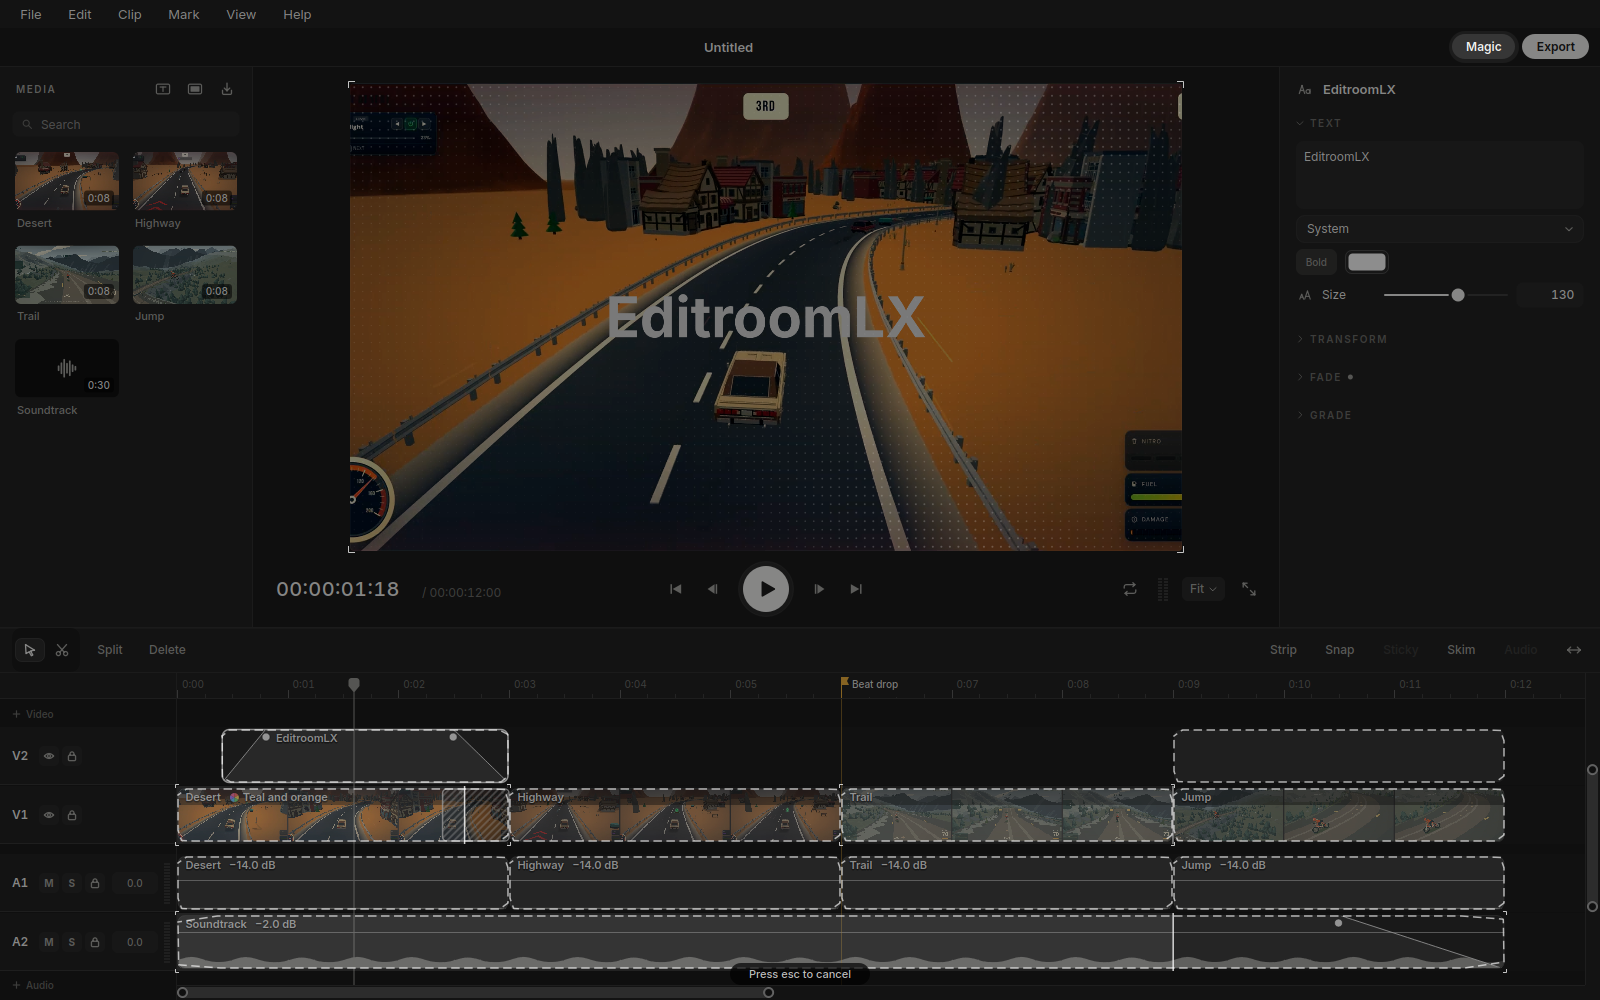
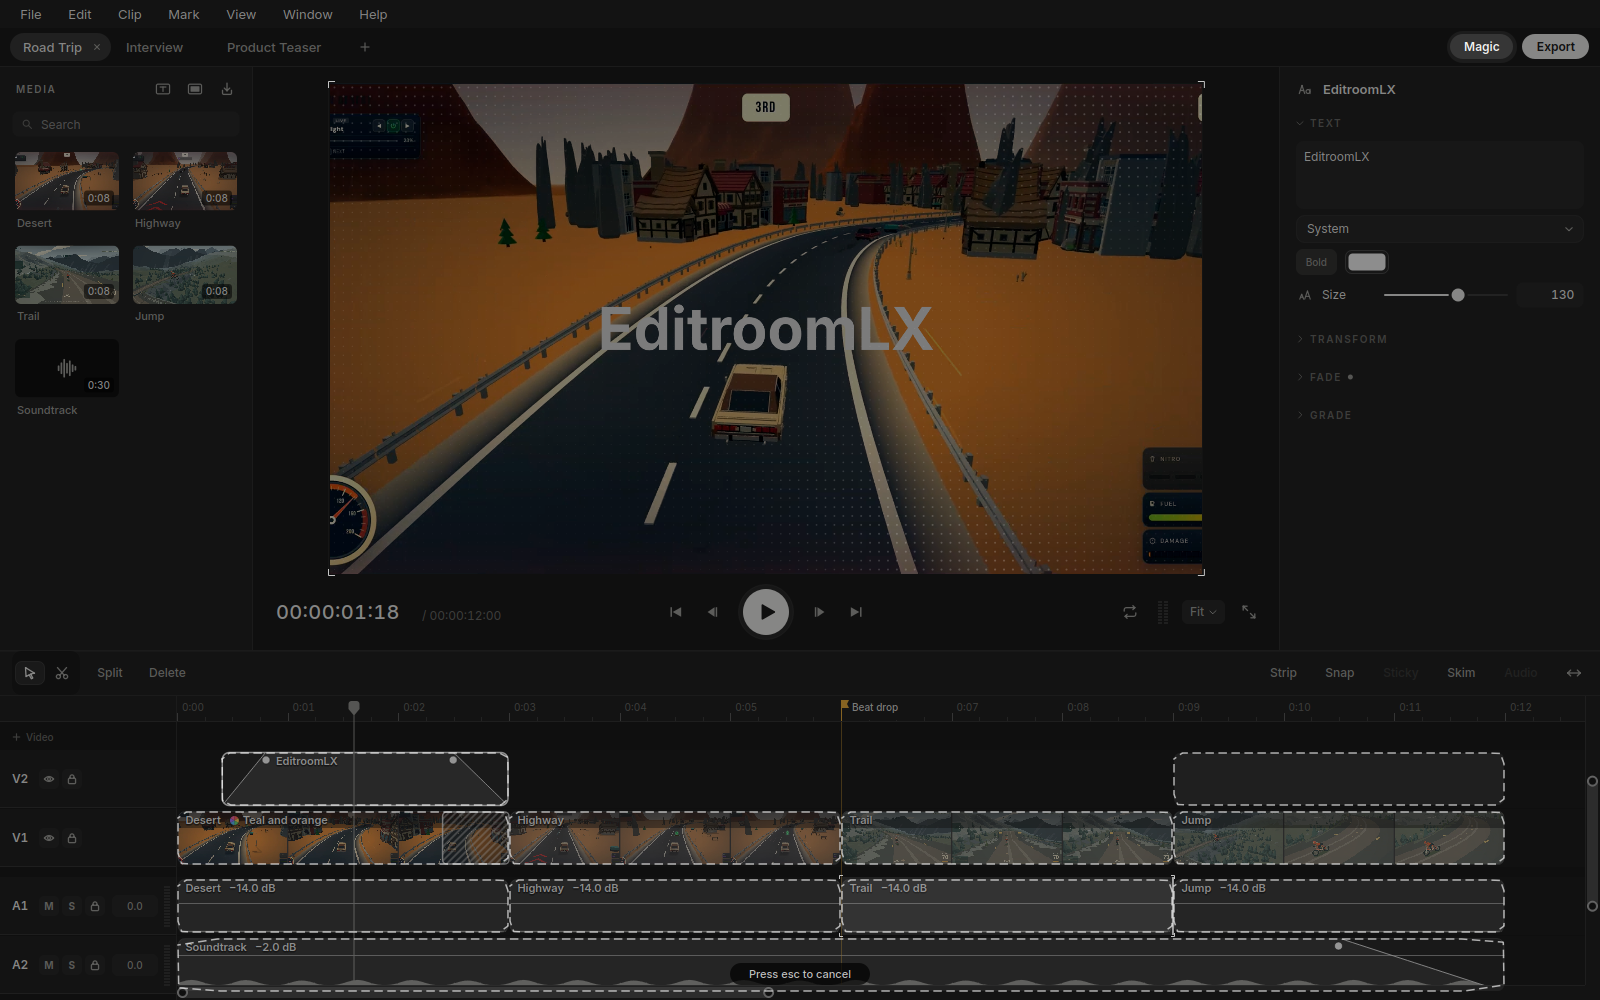
README: screenshots with project tabs
The staged editor now has the cut saved as Road Trip in front of two more project tabs,
so every window shot shows the tab strip and the Window menu.

diff --git a/tests/docs/tst_readme.cpp b/tests/docs/tst_readme.cpp
@@ -18,6 +18,9 @@
 #include <QPlainTextEdit>
 #include <QSettings>
 #include <QStandardPaths>
+#include <QTemporaryDir>
+#include <QFile>
+#include "model/Codec.h"
 #include <QTest>
 
 using namespace er;
@@ -29,6 +32,7 @@ class TestReadme : public QObject {
     std::unique_ptr<MainWindow> w;
     Controller* c = nullptr;
     std::map<QString, MediaAsset> assets;
+    QTemporaryDir projects;
     Uuid graded, title;
 
     void settle(int ms = 400) { QTest::qWait(ms); }
@@ -99,6 +103,21 @@ private slots:
             p.markers->push_back(m);
         });
         c->model().zoomToFit();
+        // Tabs (1.1): this cut saved as "Road Trip" in front, two more projects open behind it.
+        QVERIFY(c->model().writeTo(projects.filePath(QStringLiteral("Road Trip.room"))));
+        for (const char* name : {"Interview", "Product Teaser"}) {
+            Project q;
+            Clip solid(q.videoTracks[0].id, ClipKind::solid, 0, 5);
+            q.clips = {solid};
+            QFile f(projects.filePath(QLatin1String(name) + QStringLiteral(".room")));
+            QVERIFY(f.open(QIODevice::WriteOnly));
+            f.write(codec::saveBytes(SavedDocument{1, q, {}}));
+            f.close();
+            ws->open(f.fileName());
+        }
+        ws->select(0);
+        QCOMPARE(ws->count(), 3);
+        QCOMPARE(&w->controller(), c);
     }
 
     void editor() {
